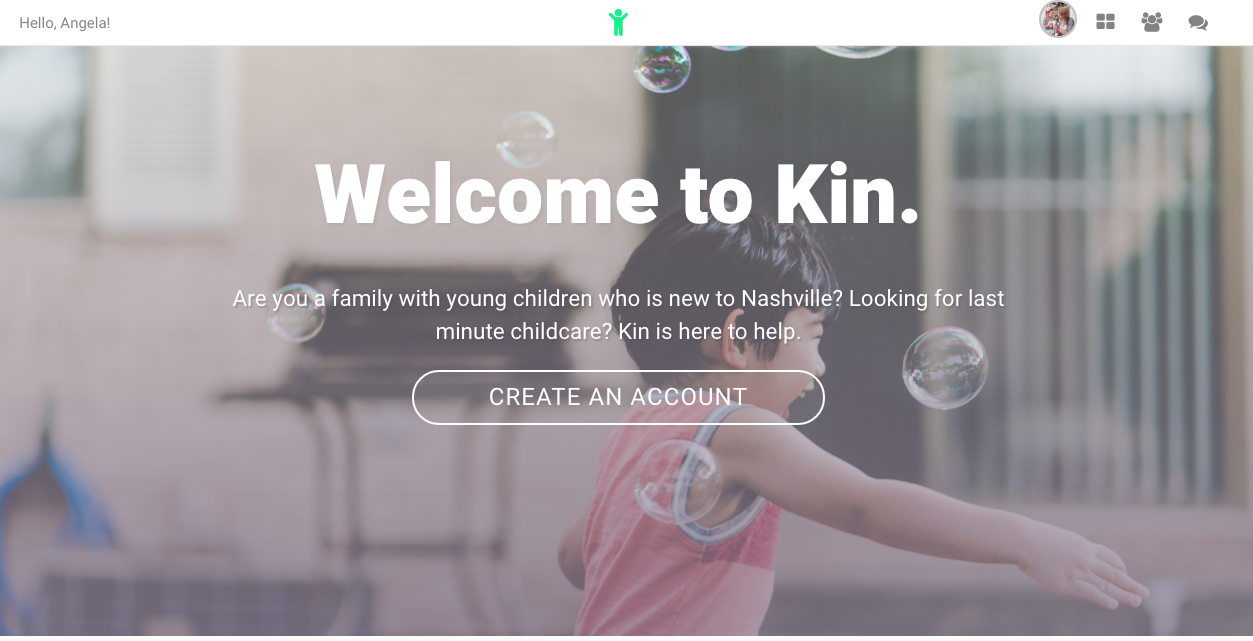
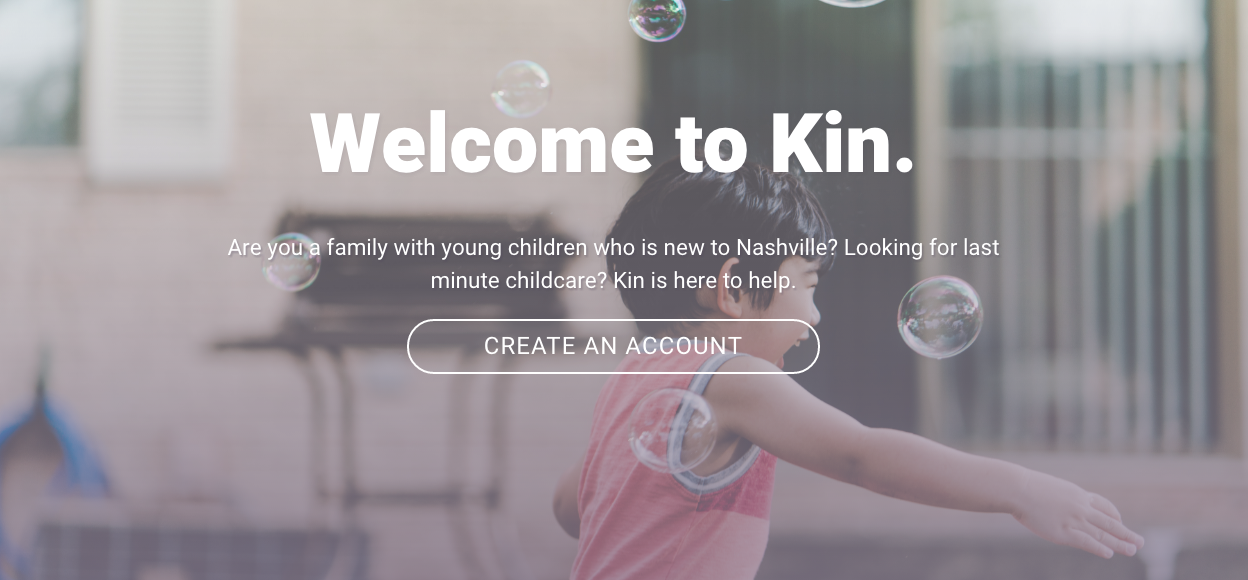
added even more queries

diff --git a/app/styles/_media.scss b/app/styles/_media.scss
@@ -50,21 +50,63 @@
     width: 97%;
   }
 
+  .first {
+    height: 100vh;
+  }
+
   .nav {
+    &__title {
+      font-size: 2.5rem;
+
+      &__sub {
+        font-size: 0.9rem;
+      }
+    }
+
     &__content {
+      width: 100%;
       flex-direction: column;
       text-align: center;
     }
+
+    &__right {
+      width: 100%;
+
+      &__menu {
+        width: 100%;
+        flex-direction: row;
+        flex-wrap: nowrap;
+        justify-content: space-between;
+        text-align: center;
+
+        &__item {
+          font-size: 1.01rem;
+        }
+      }
+    }
   }
 
-  &__right {
-    &__menu {
-      flex-direction: row;
-      flex-wrap: nowrap;
-      text-align: center;
+  .hero {
+    height: 100vh;
+    background-image: url('/img/viceversa-iphone.jpg');
+    background-size: auto;
+    overflow: hidden;
+    background-attachment: scroll;
+    background-position: top;
 
-      &__item {
-        margin: auto;
+    &__next {
+      opacity: 0.92;
+      background: transparent;
+      border-radius: 50%;
+      color: #fff;
+      z-index: 9999;
+      font-size: 3.7rem;
+      bottom: 0;
+      text-shadow: 0.2rem 0.2rem 0.2rem rgba(#444444,.87);
+
+      &:hover {
+        color: #c8c8c8;
+        bottom: -0.3rem;
       }
     }
   }
@@ -79,9 +121,8 @@
       padding: 0 0 4rem;
 
       &__1 {
-        width: 70%;
+        width: 90%;
         margin: auto;
-        text-align: justify;
         padding: 3rem 1rem;
 
         &__content {
@@ -92,10 +133,8 @@
       &__2 {
         width: 100%;
         height: 75vh;
+        margin-top: 0;
 
-        &__pic {
-          &::before {}
-        }
       }
     }
   }
@@ -105,20 +144,28 @@
   }
 
   .skills {
-    height: 75vh;
+    height: 90vh;
+    background-image: url('/img/palmer3gray-iphone.jpg');
+    background-size: auto;
+    background-attachment: scroll;
 
     &__heading {
+      font-size: 2.2rem;
       padding: 1.5rem 0.5rem;
     }
 
     &__box {
       padding: 0.5rem;
       text-align: center;
-      margin-bottom: 2rem;
+      margin-bottom: 5rem;
     }
 
     &__content {
       flex-direction: column;
+
+      strong {
+        font-size: 1.1rem;
+      }
 
       &__1 {
         width: 100%;
@@ -126,16 +173,22 @@
 
       &__2 {
         width: 100%;
+        padding-bottom: 3rem;
       }
+    }
+
+    &__next {
+      display: none;
     }
   }
 
   .portfolio {
     &__box {
-      padding: 0;
+      padding: 2rem 0 0;
     }
 
     &__heading {
+      font-size: 2.8rem;
       align-self: center;
       margin: 4rem auto;
     }
@@ -143,9 +196,9 @@
     &__grid {
       &__item {
         width: 100%;
-        margin: 0;
+        margin: 0.4rem 1rem;
         border-radius: 0;
-        //
+        // ----- if i want to remove hovers ----
         // &__info {
         //   opacity: 1;
         //   background: rgba(#454444,.69);
@@ -158,14 +211,21 @@
         //   transition: filter 200ms linear, -webkit-filter 200ms linear;
         // }
         &:last-of-type {
-          margin-bottom: 20%;
+          margin-bottom: 8rem;
         }
       }
+    }
+
+    &__next {
+      display: none;
     }
   }
 
   .contact {
     min-height: 85vh;
+    background-image: url('/img/blushgray-iphone.jpg');
+    background-size: auto;
+    background-attachment: scroll;
 
     &__box {
       min-height: 50vh;
@@ -177,6 +237,7 @@
 
     &__info {
       padding: 0.5rem 0;
+      font-size: 0.95rem;
     }
   }
 }

diff --git a/app/styles/app.scss b/app/styles/app.scss
@@ -21,7 +21,6 @@ body {
 .nav {
   background: rgba(#fff,.95);
   width: 100%;
-  // margin-top: 1.6rem;
 
   &__content {
     display: flex;
@@ -88,7 +87,7 @@ body {
   background-size: cover;
   background-position: center;
   background-attachment: fixed;
-  background-repeat: no-repeat;
+  // background-repeat: no-repeat;
   position: relative;
 
   &__gradient {
@@ -187,7 +186,7 @@ body {
 
 .skills {
   background: #eee;
-  background-image: url("/img/palmer3gray.jpg");
+  background-image: url('/img/palmer3gray.jpg');
   background-size: cover;
   background-position: center;
   background-attachment: fixed;
@@ -391,6 +390,7 @@ body {
   position: relative;
   background-size: cover;
   background-position: top;
+  color: darken(#444444, 2%);
 
   &__gradient {
     background-image: linear-gradient(rgba(#fff,1),rgba(#fff,.69));
